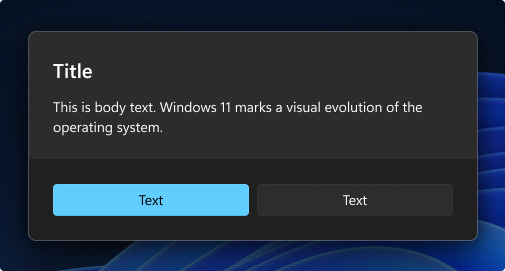
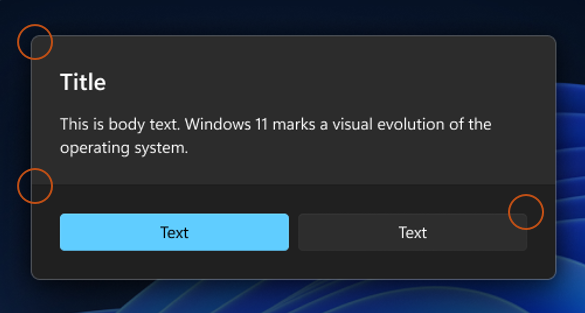
Use official Geometry design assets

diff --git a/test/ModernWpf.Gallery.Tests/GalleryPageRuntimeTests.cs b/test/ModernWpf.Gallery.Tests/GalleryPageRuntimeTests.cs
@@ -1820,11 +1820,17 @@ namespace ModernWpf.Gallery.Tests
                 Assert.AreEqual(300.0, geometryImage.Height);
                 Assert.AreEqual(Stretch.Uniform, geometryImage.Stretch);
                 Assert.AreEqual("Example of corner radius.", AutomationProperties.GetName(geometryImage));
-                StringAssert.Contains(((BitmapImage)geometryImage.Source).UriSource.ToString(), "Geometry.light.png");
+                var geometryLightBitmap = (BitmapImage)geometryImage.Source;
+                StringAssert.Contains(geometryLightBitmap.UriSource.ToString(), "Geometry.light.png");
+                Assert.AreEqual(586, geometryLightBitmap.PixelWidth);
+                Assert.AreEqual(315, geometryLightBitmap.PixelHeight);
 
                 var geometryContent = (GeometryPage)geometryPage.DirectPageContent;
                 geometryContent.ApplyImageResources(ElementTheme.Dark);
-                StringAssert.Contains(((BitmapImage)geometryImage.Source).UriSource.ToString(), "Geometry.dark.png");
+                var geometryDarkBitmap = (BitmapImage)geometryImage.Source;
+                StringAssert.Contains(geometryDarkBitmap.UriSource.ToString(), "Geometry.dark.png");
+                Assert.AreEqual(585, geometryDarkBitmap.PixelWidth);
+                Assert.AreEqual(313, geometryDarkBitmap.PixelHeight);
 
                 var geometryExample = (ControlExample)geometryBody.Children[4];
                 Assert.IsNull(geometryExample.HeaderText);

diff --git a/docs/wpf-gallery-milestone-1-tracker.md b/docs/wpf-gallery-milestone-1-tracker.md
@@ -88,6 +88,16 @@ Goal tracker status in Codex: active, not complete.
 
 Latest local verification for the current branch tip:
 
+- `dotnet test test\ModernWpf.Gallery.Tests\ModernWpf.Gallery.Tests.csproj --configuration Debug --filter "FullyQualifiedName~GalleryPageRuntimeTests.DesignGuidancePagesMatchWpfGalleryReferenceLayoutDetails" -p:UseSharedCompilation=false`
+  - Passed for `net8.0-windows7.0` and `net10.0-windows7.0`: 1 test per target. Geometry now loads the official WPF Gallery design images from local assets, with regression coverage pinning WPF-decoded image dimensions for the official files (`Geometry.light.png` as `586x315`, `Geometry.dark.png` as `585x313`) alongside the existing copied XAML/table layout checks. Existing warning/output remains `NU1903`, generated WinRT warnings, existing ModernWpf/ModernWpf.Controls warnings, and recurring `Failed to resolve WinRT.Runtime.dll` messages.
+- `Get-FileHash ModernWpf.Gallery\Assets\Design\Geometry.light.png` and `Get-FileHash "D:\repos\WPF-Samples\Sample Applications\WPFGallery\Assets\Design\Geometry.light.png"`
[1 lines of base64/hex data omitted]
+- `Get-FileHash ModernWpf.Gallery\Assets\Design\Geometry.dark.png` and `Get-FileHash "D:\repos\WPF-Samples\Sample Applications\WPFGallery\Assets\Design\Geometry.dark.png"`
[1 lines of base64/hex data omitted]
+- `dotnet build ModernWpf.Gallery\ModernWpf.Gallery.csproj --configuration Debug -p:UseSharedCompilation=false`
+  - Passed for `net462`, `net8.0-windows7.0`, and `net10.0-windows7.0` after replacing the Geometry design images with official WPF Gallery assets. Existing warning/output remains recurring `Failed to resolve WinRT.Runtime.dll` messages plus existing ModernWpf/ModernWpf.Controls warnings.
+- `.\tools\visual-checks\Run-WpfGalleryVisualAudit.ps1 -Cases Geometry -Reference OfficialWpfGallery -Theme Light -TimeoutSeconds 20`
+  - Pre-replacement focused artifact `artifacts/wpf-gallery-visual-audit/20260523-185939/report.md` was nonblank and showed Geometry Light delta `16.96`, with Modern using `GalleryContentHostRenderedArtifact` and official using `OfficialDirectRootContentFrameRenderedArtifact`; inspection showed Modern still had non-official Geometry image bytes without the official orange radius callouts. Post-replacement retry artifacts `artifacts/wpf-gallery-visual-audit/20260523-190541/report.md`, `artifacts/wpf-gallery-visual-audit/20260523-190603/report.md`, and `artifacts/wpf-gallery-visual-audit/20260523-190644/report.md` all failed blank-surface capture for both Modern and official windows and are not accepted visual evidence.
 - `dotnet test test\ModernWpf.Gallery.Tests\ModernWpf.Gallery.Tests.csproj --configuration Debug --filter "FullyQualifiedName~GalleryNavigationRuntimeTests.SectionPagesUseOfficialWpfGalleryViewModels|FullyQualifiedName~GalleryNavigationRuntimeTests.WpfGalleryPageShellCardsMatchReferenceAutomationAndLayout" -p:UseSharedCompilation=false`
   - Passed for `net8.0-windows7.0` and `net10.0-windows7.0`: 2 tests per target. Generic WPF section pages now set their WPF `Page.Title` values to the official section page names (`DesignGuidancePage`, `SamplesPage`, `BasicInputPage`, `CollectionsPage`, `DateAndTimePage`, `LayoutPage`, `MediaPage`, `NavigationPage`, `StatusAndInfoPage`, `TextPage`, and `SystemPage`) instead of reusing `NavigationPage` for every section; existing section view-model, page-header, and navigation-card binding coverage still passes. Existing warning/output remains `NU1903`, generated WinRT warnings, existing ModernWpf/ModernWpf.Controls warnings, and recurring `Failed to resolve WinRT.Runtime.dll` messages.
 - `dotnet build ModernWpf.Gallery\ModernWpf.Gallery.csproj --configuration Debug -p:UseSharedCompilation=false`
@@ -707,8 +717,8 @@ Latest local verification for the current branch tip:
 | All Controls page | Partial | Header, navigation cards, `AllSamplesPageViewModel.PageTitle` / `AllSamplesPageViewModel.NavigationCards` bindings, `ViewModel.NavigateCommand` card command binding, the official All Controls catalog filter, and the official Navigation item sequence (`Menu`, `TabControl`, `Frame`, `NavigationWindow`) now use adapted official structure. Samples, the current official catalog's orphaned Media group, and ModernWpf/WinUI extension pages are excluded from All Controls so the WPF Gallery surface keeps the official content extent and scrollbar metrics; Media and extension pages remain available through their own combined-gallery sections. Latest Light direct-reference visual audit recorded at `artifacts/wpf-gallery-visual-audit/20260523-083720/report.md` with Modern/official both `Passed`, matching crops `868x758`, and delta `0`; latest Dark direct-reference visual audit recorded at `artifacts/wpf-gallery-visual-audit/20260523-083836/report.md` with delta `0`. The direct host loads official `AllSamplesPage` because the normal official shell route is unreliable from a fresh run, with diagnostic artifact `artifacts/wpf-gallery-visual-audit/20260523-073927/report.md`; a ModernWpf-only refreshed Light artifact recorded at `artifacts/wpf-gallery-visual-audit/20260523-023958/report.md` verifies the official list extent `335,225,880,1996`, Clipboard as the final card, and matching `205px` scrollbar thumb. |
 | Section pages | Partial | Headers, navigation cards, official-named section view models, official WPF `Page.Title` values, `ViewModel.PageTitle` / `ViewModel.NavigationCards` bindings, app-level `Resources/Templates.xaml`, and `ViewModel.NavigateCommand` card command binding now use adapted official structure; runtime coverage verifies each WPF-equivalent section's VM type, WPF page title, visible title, description, item order, and fallback behavior for ModernWpf-only sections. Latest direct-reference Light and Dark section audits are recorded at `artifacts/wpf-gallery-visual-audit/20260523-122629/report.md` and `artifacts/wpf-gallery-visual-audit/20260523-122752/report.md`; WPF catalog sections in that broad run are delta `0` in both themes except Media's superseded orphan-catalog baseline. Latest Media direct-reference audits are recorded at `artifacts/wpf-gallery-visual-audit/20260523-123758/report.md` and `artifacts/wpf-gallery-visual-audit/20260523-123823/report.md` with delta `0` in both themes. Continue visual review for Home, Settings, remaining shell styling, and High Contrast. |
 | Sample code panes | Partial | Basic Input, Collections, Date & Calendar, Design Guidance, Layout, Media, Navigation, Status & Info, Text, System, and What's New `ControlExample` snippets are now covered by runtime parity tests against the official WPF Gallery reference values, including ResizeGrip, NavigationWindow, System C# panes, and MessageBox dynamic snippet variants; continue section-by-section coverage for remaining WPF-equivalent pages and C# snippets where present. |
-| Assets and thumbnails | Partial | WPF Gallery-equivalent catalog thumbnail choices, User Dashboard image brush assets, Iconography `Samples/Data/IconsData.json`, and `Assets/ControlImages` pack-resource resolution now have focused regression coverage, and official-only reference assets are present locally; continue verifying non-`ControlImages` visuals page-by-page. |
-| Typography and spacing metrics | Partial | Shared WPF Gallery typography size keys and base text style metrics are now centralized in `Resources/PageStyles.xaml` and runtime-covered, `GalleryPageRootStyle` now inherits `BodyTextBlockFontSize` for top-level copied/support page body text and uses `SolidBackgroundFillColorTertiaryBrush` so section page roots render on the official solid WPF Gallery page background instead of double-applying translucent `LayerFillColorDefaultBrush`, `BaseTextBlockStyle` now inherits foreground like official WPF Gallery instead of forcing a ModernWpf-only global foreground setter, `ControlExample` display content now inherits `BodyTextBlockFontSize`, direct WPF pages now use a full-frame host so copied page scroll roots own their own margins, `ColorTile` now uses official natural tile height instead of a ModernWpf-only minimum, `ColorTilesPanelStyle` now goes through the official `ControlExampleDisplayBrush` key while preserving the official app's unresolved-key transparent panel behavior, User Dashboard image brushes now follow the official page-style resource lookup model, and the Design Guidance Typography/Spacing/Geometry table bodies now match the official zero-inner-margin placement. Continue auditing page root margins, header spacing, card spacing, sample spacing, and rendered line heights against official WPF Gallery. |
+| Assets and thumbnails | Partial | WPF Gallery-equivalent catalog thumbnail choices, User Dashboard image brush assets, Iconography `Samples/Data/IconsData.json`, byte-identical official Geometry light/dark design images, and `Assets/ControlImages` pack-resource resolution now have focused regression coverage, and official-only reference assets are present locally; continue verifying non-`ControlImages` visuals page-by-page. |
+| Typography and spacing metrics | Partial | Shared WPF Gallery typography size keys and base text style metrics are now centralized in `Resources/PageStyles.xaml` and runtime-covered, `GalleryPageRootStyle` now inherits `BodyTextBlockFontSize` for top-level copied/support page body text and uses `SolidBackgroundFillColorTertiaryBrush` so section page roots render on the official solid WPF Gallery page background instead of double-applying translucent `LayerFillColorDefaultBrush`, `BaseTextBlockStyle` now inherits foreground like official WPF Gallery instead of forcing a ModernWpf-only global foreground setter, `ControlExample` display content now inherits `BodyTextBlockFontSize`, direct WPF pages now use a full-frame host so copied page scroll roots own their own margins, `ColorTile` now uses official natural tile height instead of a ModernWpf-only minimum, `ColorTilesPanelStyle` now goes through the official `ControlExampleDisplayBrush` key while preserving the official app's unresolved-key transparent panel behavior, User Dashboard image brushes now follow the official page-style resource lookup model, the Design Guidance Typography/Spacing/Geometry table bodies now match the official zero-inner-margin placement, and Geometry now uses byte-identical official design image assets. Continue auditing page root margins, header spacing, card spacing, sample spacing, and rendered line heights against official WPF Gallery. |
 | Theme behavior | Partial | Branch-tip focused normal-shell Dark evidence is refreshed for Basic Input `1.37` (`artifacts/wpf-gallery-visual-audit/20260523-094448/report.md`), Navigation `1.35` (`artifacts/wpf-gallery-visual-audit/20260523-101051/report.md`), and `artifacts/wpf-gallery-visual-audit/20260523-102529/report.md` for Layout `1.53`, Collections `1.35`, Date & Calendar `1.19`, Status & Info `1.28`, System `1.18`, and Text `1.48`; Modern and official both `Passed`, crops match at `868x758`, and Modern uses `ContentRootGridRenderedArtifact`. Home Dark now has a branch-tip live-crop pass at `artifacts/wpf-gallery-visual-audit/20260523-144525/report.md` with delta `0.05`, matching `916x762` crops from the Frame child pane; Home header tiles use explicit WPF Gallery light/dark acrylic fills and their `RootButton` peers are visible in external UIA in both themes. Settings Dark has a branch-tip pass at `artifacts/wpf-gallery-visual-audit/20260523-144524/report.md` with delta `1.15`. Latest direct-reference Dark section slice is `artifacts/wpf-gallery-visual-audit/20260523-122752/report.md`; Samples, Basic Input, Collections, Date & Calendar, Layout, Navigation, Status & Info, Text, and System are delta `0`. Latest Media direct-reference Dark evidence is `artifacts/wpf-gallery-visual-audit/20260523-123823/report.md` with delta `0` after the official direct host seeds the orphaned Canvas/Image cards. Latest direct-reference Dark item/support slices include `artifacts/wpf-gallery-visual-audit/20260523-083836/report.md` for What's New, All Controls, Design Guidance, Color, Typography, Spacing, Geometry, Iconography, Canvas, and Image, `artifacts/wpf-gallery-visual-audit/20260523-120039/report.md` for Collections item pages, `artifacts/wpf-gallery-visual-audit/20260523-120841/report.md` for remaining Text item pages, and `artifacts/wpf-gallery-visual-audit/20260523-121519/report.md` for Navigation item pages; all pass with matching `868x758` crops. Collections Dark deltas are DataGrid `7.63`, ListBox `0`, ListView `1.38`, and TreeView `0`; remaining Text and Navigation item Dark deltas are all `0`; earlier direct-reference Dark deltas remain What's New `0`, All Controls `0`, Design Guidance `0`, Color `0.1`, Typography `0.4`, Spacing `0.01`, Geometry `0.92`, Iconography `0.12`, Canvas `0`, and Image `0`. DataGrid high-contrast `SampleDataGrid` background/foreground switching now mirrors official WPF Gallery and is runtime-covered; Spacing and Geometry now refresh copied design images through the official user-preference signal and retain ModernWpf actual-theme switching; shell title chrome now follows the official high-contrast/Windows 11 `NonClientFrameEdges` decision, and the main window background is pinned to the official `WindowBackground` resource instead of the ModernWpf base fill; continue checking remaining High Contrast views and the normal Media section route exception. |
 | Keyboard and automation details | Open | Shared `PageHeader` label naming, focus order, tab stops, and heading behavior now match the official template shape through the local compatibility adapter; generic ModernWpf/WinUI `ItemPage` headers, What's New, and Settings now use that shared `PageHeader` template instead of page-local labels, while registry-backed direct item pages keep the wrapper header collapsed; the WPF Gallery-style title text, Home hero, and Home section headings now declare their WPF Gallery heading levels in XAML, `HeaderTile.RootButton` now uses the official title-bound automation name in XAML and is exposed through the `HeaderTile` automation peer, the top Back button exposes the official `Back` automation name, the retained NavigationView now exposes the official `Navigation Pane` name, navigation text elements now report tight UIA bounds instead of stretched column bounds, NavigationView top-level and expanded child row bounds are now in the official TreeView/settings columns, section group rows expose `GalleryNavigationDisclosureChevron` glyphs that rotate on expansion, the Settings route now uses an official-style `SettingsButton` automation role/id/name in `PaneFooter` instead of a NavigationView footer item and raises the official settings-opened notification, ModernWpf-only visual-test route/ready status TextBlocks are collapsed outside diagnostics launches, and ListView's selection-mode ComboBox again exposes the official `Selection Mode` name. Continue aligning remaining copied pages and controls. |
 | Manual visual acceptance checklist | Open | Record reviewed pages with screenshots or artifact paths once a visual pass exists. |
@@ -723,11 +733,11 @@ Use this checklist for future rounds.
 | What's New | Done | Done | Partial | Adapted from official WPF Gallery XAML/code strings with shared `PageHeader`, `WhatsNewPageViewModel`, local navigation, inherited root body font sizing, official-style unstyled paragraph TextBlocks, the official `comma&#x2011;separated` Grid shorthand copy, and accent-resource integration; sample headers/snippets, root body font inheritance, and header template/bindings are runtime-covered. Latest direct-reference Light visual audit recorded at `artifacts/wpf-gallery-visual-audit/20260523-083720/report.md` with Modern/official both `Passed`, matching `868x758` crops, and delta `0.01`; latest direct-reference Dark visual audit recorded at `artifacts/wpf-gallery-visual-audit/20260523-083836/report.md` with delta `0`; latest ModernWpf-only Light visual audit recorded at `artifacts/wpf-gallery-visual-audit/20260523-061306/report.md` with Modern `Passed`, crop `868x758`, first-viewport UIA matching accepted official geometry, and scrollbar `1203,217,12,638`. Older official-shell Light comparison remains `artifacts/wpf-gallery-visual-audit/20260522-112027/report.md` with delta `14.83`. |
 | All Controls | Partial | Partial | Partial | Runtime shell checks plus adapted `PageHeader`, navigation-card resources, official-style `AllSamplesPageViewModel`, `ViewModel.*` bindings, `ViewModel.NavigateCommand` card commands, All Controls catalog filtering, and the full official WPF Gallery card order from Colors through Clipboard now exist; Samples, Media, and ModernWpf/WinUI extension pages are excluded from All Controls to match the current official catalog content extent, while Media and extension pages remain available through their own combined-gallery sections. Latest Light direct-reference visual audit recorded at `artifacts/wpf-gallery-visual-audit/20260523-083720/report.md` with delta `0` and matching `868x758` crops; latest Dark direct-reference visual audit recorded at `artifacts/wpf-gallery-visual-audit/20260523-083836/report.md` with delta `0` and matching crops. Normal official-shell route diagnostic recorded at `artifacts/wpf-gallery-visual-audit/20260523-073927/report.md`; refreshed ModernWpf-only Light artifact recorded at `artifacts/wpf-gallery-visual-audit/20260523-023958/report.md` verifies list extent `335,225,880,1996` and scrollbar thumb `1207,239,4,205`. |
 | Settings | Done | Partial | Done | The Settings page now uses the adapted official WPF Gallery `PageHeader`, WPF `Page` root, and `SettingsPageViewModel` `ViewModel.PageTitle` / `ViewModel.PageDescription` binding shape, and the visible About expander header now matches the official `WPF Gallery Preview` / `WPF Gallery` / copyright text while preserving ModernWpf-specific expanded repository/link actions. Runtime coverage verifies the shared header template automation, bindings, and About header text; latest Light visual audit recorded at `artifacts/wpf-gallery-visual-audit/20260523-141431/report.md` with delta `0.23`, and latest Dark visual audit recorded at `artifacts/wpf-gallery-visual-audit/20260523-144524/report.md` with delta `1.15`, both with matching Modern/official crops `868x758`. |
-| Design Guidance section | Partial | Partial | Partial | Section page plus Color, Iconography, Typography, Spacing, and Geometry now use adapted official WPF Gallery page shells/XAML, WPF `Page` roots, official `Title` values, and page-specific view-model constructor injection; the section itself uses official-style `DesignGuidancePageViewModel`; Typography and Geometry sample code panes are runtime-covered; Typography, Spacing, and Geometry table body offsets are runtime-covered against the official zero-inner-margin placement. Latest direct-reference Light visual audit recorded at `artifacts/wpf-gallery-visual-audit/20260523-083720/report.md` with matching `868x758` crops and deltas DesignGuidance `0`, Color `0.07`, Typography `0.29`, Spacing `0.01`, Geometry `0.98`, Iconography `0.17`; latest direct-reference Dark visual audit recorded at `artifacts/wpf-gallery-visual-audit/20260523-083836/report.md` with matching crops and deltas DesignGuidance `0`, Color `0.1`, Typography `0.4`, Spacing `0.01`, Geometry `0.92`, Iconography `0.12`. |
+| Design Guidance section | Partial | Partial | Partial | Section page plus Color, Iconography, Typography, Spacing, and Geometry now use adapted official WPF Gallery page shells/XAML, WPF `Page` roots, official `Title` values, and page-specific view-model constructor injection; the section itself uses official-style `DesignGuidancePageViewModel`; Typography and Geometry sample code panes are runtime-covered; Typography, Spacing, and Geometry table body offsets are runtime-covered against the official zero-inner-margin placement; Geometry light/dark design images are now byte-identical to the official WPF Gallery assets. Latest accepted direct-reference Light visual audit remains `artifacts/wpf-gallery-visual-audit/20260523-083720/report.md` with matching `868x758` crops and deltas DesignGuidance `0`, Color `0.07`, Typography `0.29`, Spacing `0.01`, Geometry `0.98`, Iconography `0.17`; latest accepted direct-reference Dark visual audit remains `artifacts/wpf-gallery-visual-audit/20260523-083836/report.md` with matching crops and deltas DesignGuidance `0`, Color `0.1`, Typography `0.4`, Spacing `0.01`, Geometry `0.92`, Iconography `0.12`. New post-asset Geometry visual acceptance is pending because the post-copy refresh attempts hit blank-surface capture for both apps. |
 | Color | Done | Done | Partial | Direct page shell and all six subsections now use adapted official WPF Gallery XAML with WPF `Page` root, `Title="ColorsPage"`, injected `ColorsPageViewModel`, `PageHeader`, selector, `ColorPageExample`, WPF Gallery-style `Frame.Navigate` to `Page` subsections, natural-height `ColorTile` styling without the previous ModernWpf-only tile automation name callback, and the official unresolved `ControlExampleDisplayBrush` transparency behavior; latest direct-reference Light visual audit recorded at `artifacts/wpf-gallery-visual-audit/20260523-083720/report.md` with Modern/official both `Passed`, matching `868x758` crops, and delta `0.07`; latest direct-reference Dark visual audit recorded at `artifacts/wpf-gallery-visual-audit/20260523-083836/report.md` with delta `0.1`; refreshed ModernWpf-only Light visual audit recorded at `artifacts/wpf-gallery-visual-audit/20260523-064925/report.md` with Modern `Passed`, crop `868x758`, and first-viewport frame/section/tile UIA geometry matching the accepted official Color artifact. |
 | Typography | Done | Done | Partial | Adapted from official WPF Gallery XAML with WPF `Page` root, `Title="TypographyPage"`, injected `TypographyPageViewModel`, `PageHeader`, and `ControlExample`; sample header/snippet and type-ramp table offsets are runtime-covered; latest direct-reference Light visual audit recorded at `artifacts/wpf-gallery-visual-audit/20260523-083720/report.md` with Modern/official both `Passed`, matching `868x758` crops, and delta `0.29`; latest direct-reference Dark visual audit recorded at `artifacts/wpf-gallery-visual-audit/20260523-083836/report.md` with delta `0.4`; refreshed ModernWpf-only Light visual audit recorded at `artifacts/wpf-gallery-visual-audit/20260523-062840/report.md` with crop `868x758` and table/source-expander UIA matching the accepted official artifact. |
 | Spacing | Done | Done | Partial | Adapted from official WPF Gallery XAML with WPF `Page` root, `Title="SpacingPage"`, injected `SpacingPageViewModel`, `PageHeader`, spacing imagery, and spacing table; design images switch to official light/dark assets using the ModernWpf actual theme and the official user-preference refresh event; the table keeps the official outer frame margin/padding while dropping the ModernWpf-only inner grid margin; latest direct-reference Light visual audit recorded at `artifacts/wpf-gallery-visual-audit/20260523-083720/report.md` with Modern/official both `Passed`, matching `868x758` crops, and delta `0.01`; latest direct-reference Dark visual audit recorded at `artifacts/wpf-gallery-visual-audit/20260523-083836/report.md` with delta `0.01`. |
-| Geometry | Done | Done | Partial | Adapted from official WPF Gallery XAML with WPF `Page` root, `Title="GeometryPage"`, injected `GeometryPageViewModel`, `PageHeader`, geometry imagery, and corner-radius table; design image switches to official light/dark assets using the ModernWpf actual theme and the official user-preference refresh event; sample snippet, visible usage sentence spacing, official row `StackPanel`/`Border` wrappers, `148/400/*` columns, dynamic `OverlayCornerRadius`/`ControlCornerRadius` samples, and zero-inner-margin corner-radius table placement are runtime-covered; latest accepted direct-reference Light visual audit recorded at `artifacts/wpf-gallery-visual-audit/20260523-083720/report.md` with Modern/official both `Passed`, matching `868x758` crops, and delta `0.98`; latest accepted direct-reference Dark visual audit recorded at `artifacts/wpf-gallery-visual-audit/20260523-083836/report.md` with delta `0.92`; later focused Geometry audit attempt `artifacts/wpf-gallery-visual-audit/20260523-161212/report.md` failed blank-surface capture for both apps and is not accepted evidence. |
[1 lines of base64/hex data omitted]
 | Iconography | Done | Done | Partial | Adapted from official WPF Gallery XAML with WPF `Page` root, `Title="IconsPage"`, `Page.Resources`, injected `IconographyPageViewModel`, `PageHeader`, instructions, icon library, details pane, and pagination; `Samples/Data/IconsData.json` now matches the official WPF Gallery icon dataset with `StopSlideShow` first and official pagination counts, and runtime coverage pins first-icon details/search/pagination behavior; latest direct-reference Light visual audit recorded at `artifacts/wpf-gallery-visual-audit/20260523-083720/report.md` with Modern/official both `Passed`, matching `868x758` crops, and delta `0.17`; latest direct-reference Dark visual audit recorded at `artifacts/wpf-gallery-visual-audit/20260523-083836/report.md` with delta `0.12`; refreshed ModernWpf-only Light visual audit recorded at `artifacts/wpf-gallery-visual-audit/20260523-063728/report.md` with crop `868x758` and first-page UIA ordering matching the accepted official artifact. |
 | Samples section | Partial | Partial | Partial | User Dashboard exact source audit is covered with the official WPF `Page` root and constructor-injected view model shape; latest direct-reference section Light audit recorded at `artifacts/wpf-gallery-visual-audit/20260523-122629/report.md` and Dark audit recorded at `artifacts/wpf-gallery-visual-audit/20260523-122752/report.md`, both with Samples delta `0`, matching `868x758` crops, Modern `ContentRootGridRenderedArtifact`, and official `OfficialDirectRootContentFrameRenderedArtifact`. Focused User Dashboard direct-reference item audits are refreshed separately with matching crops and random-data deltas. |
 | User Dashboard | Done | Done | Partial | Adapted from official WPF Gallery XAML/code-behind/view-model shape with WPF `Page` root, `Title="UserDashboardPage"`, `Page.Resources`, injected `UserDashboardPageViewModel`, official unseeded random sample-data behavior, official initial no-selection state, local automation notification guards, full-frame direct page hosting, and official-style `p*` image brush resources resolved through `PageStyles.xaml`; runtime layout/behavior tested; latest direct-reference Light visual audit recorded at `artifacts/wpf-gallery-visual-audit/20260523-110724/report.md` with delta `4.09`; latest direct-reference Dark visual audit recorded at `artifacts/wpf-gallery-visual-audit/20260523-110749/report.md` with delta `3.89`; crops match at `868x758`; remaining delta is dominated by independently generated random user/photo/text sample data. |
